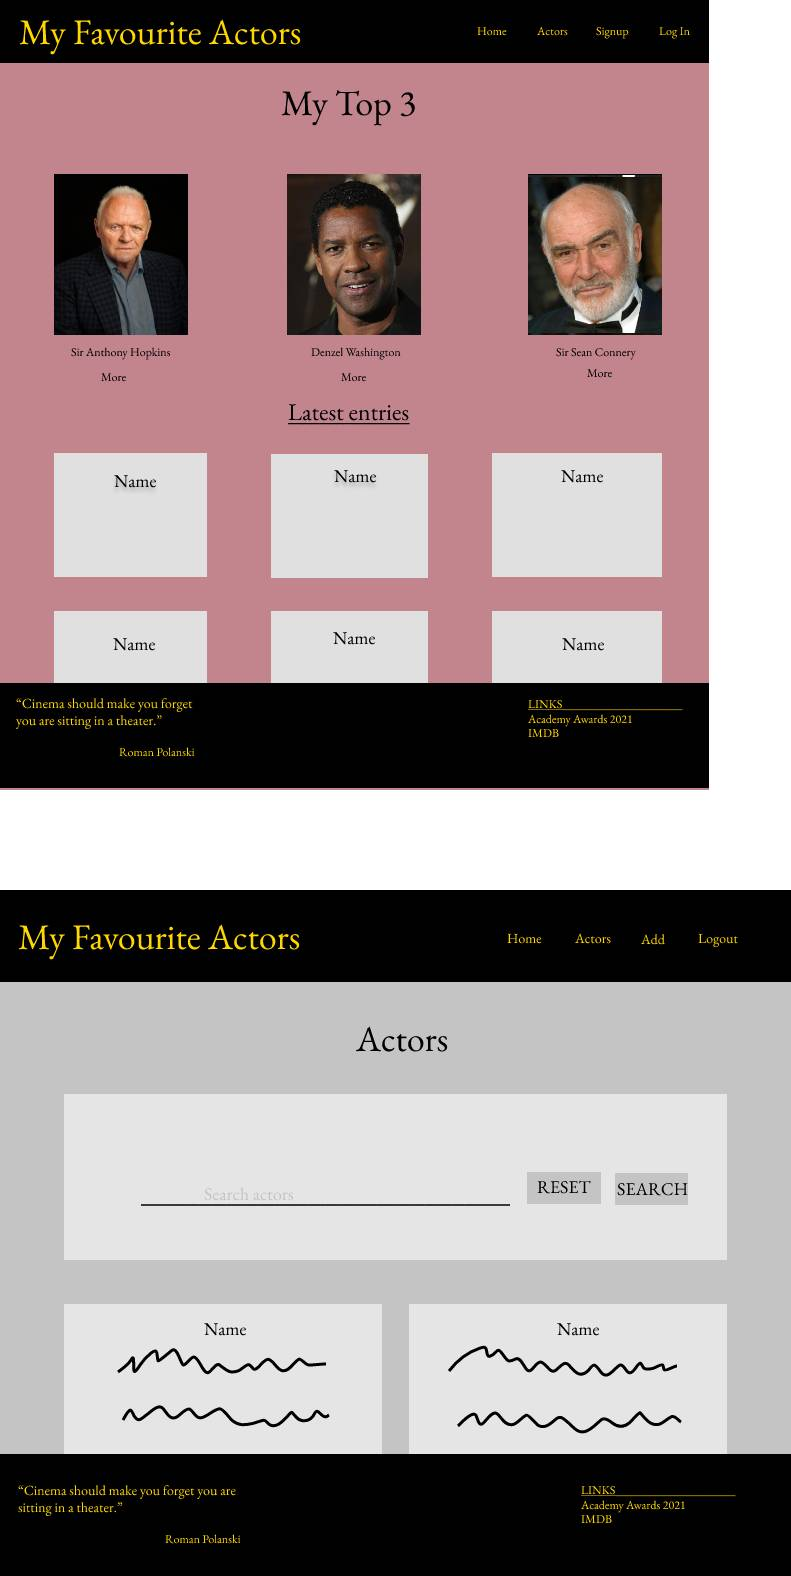
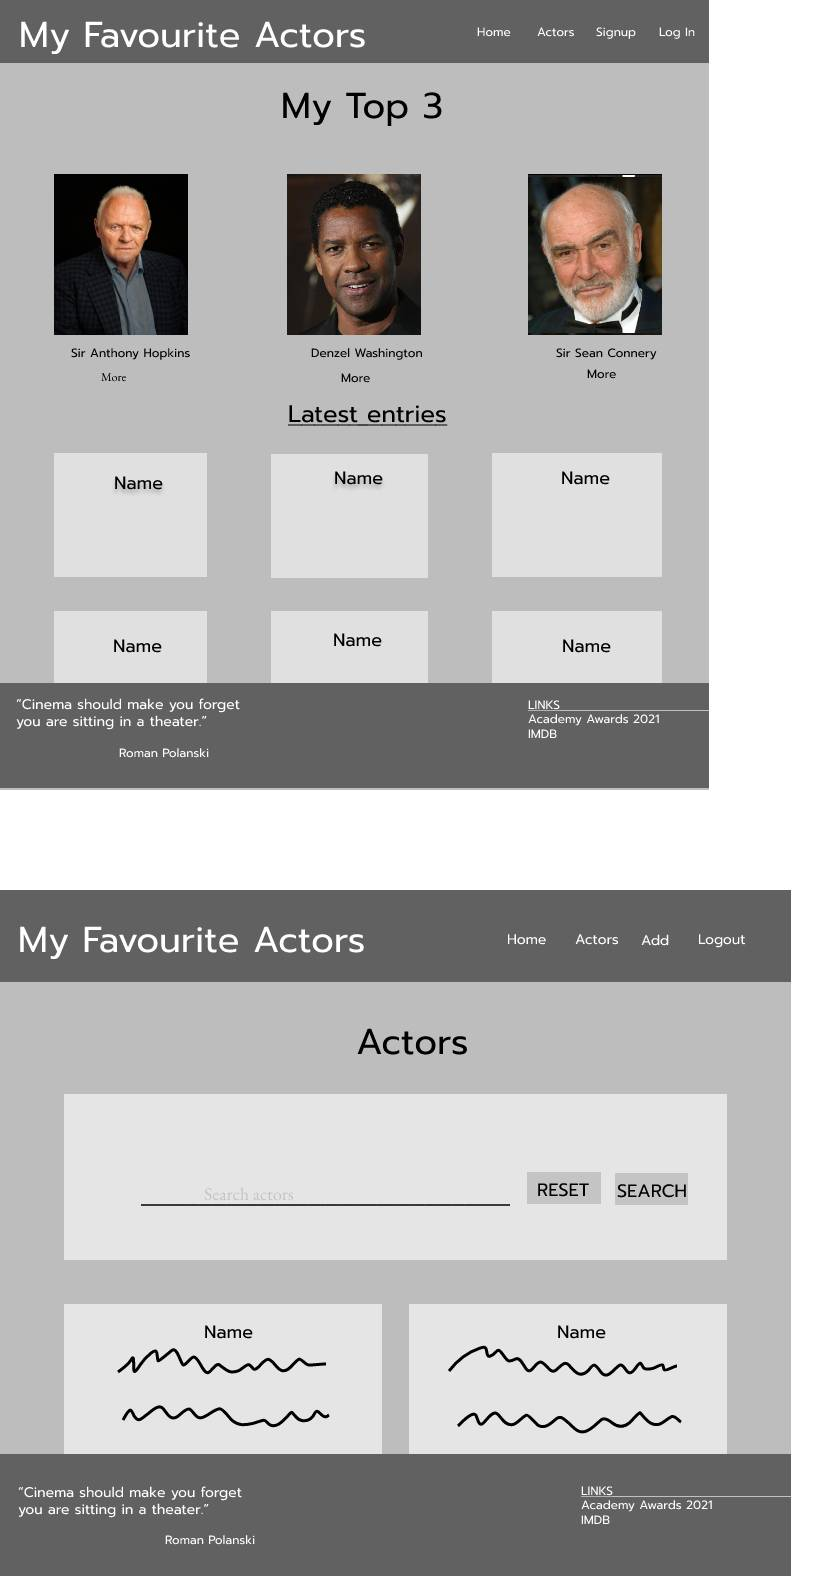
added mockup to project and fixed corrupted wireframe file

diff --git a/README.md b/README.md
@@ -1,6 +1,6 @@
 <h1 align="center">Code Institute Milestone Project 3 - My Favourite Actors</h1>
 
-![Project's Mockup](assets/project/MS3Mockup.JPG)
+![Project's Mockup](documentation/MS3mockup.JPG)
 
 Click [here](https://my-favourite-actors.herokuapp.com/) to see live project.
 
